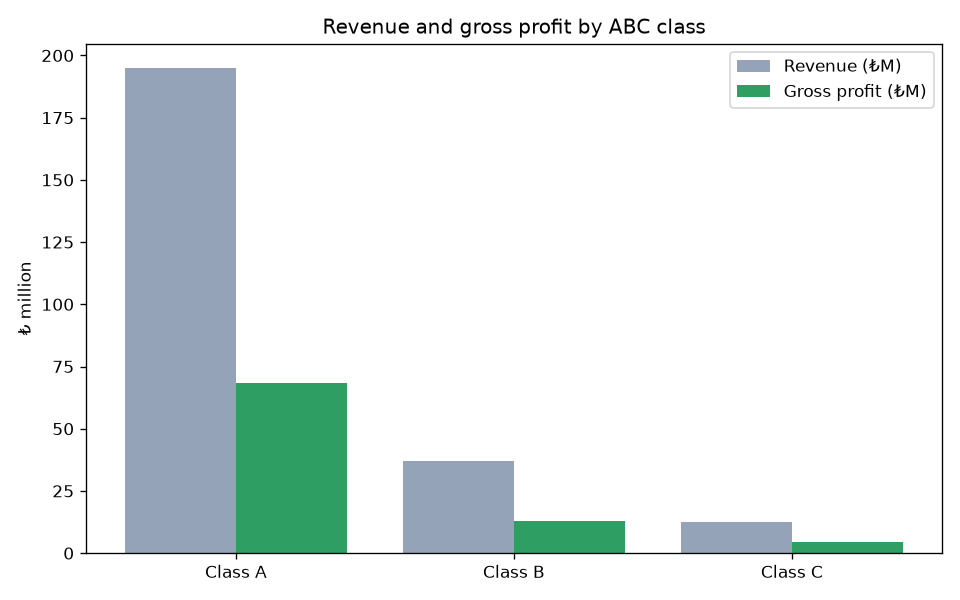
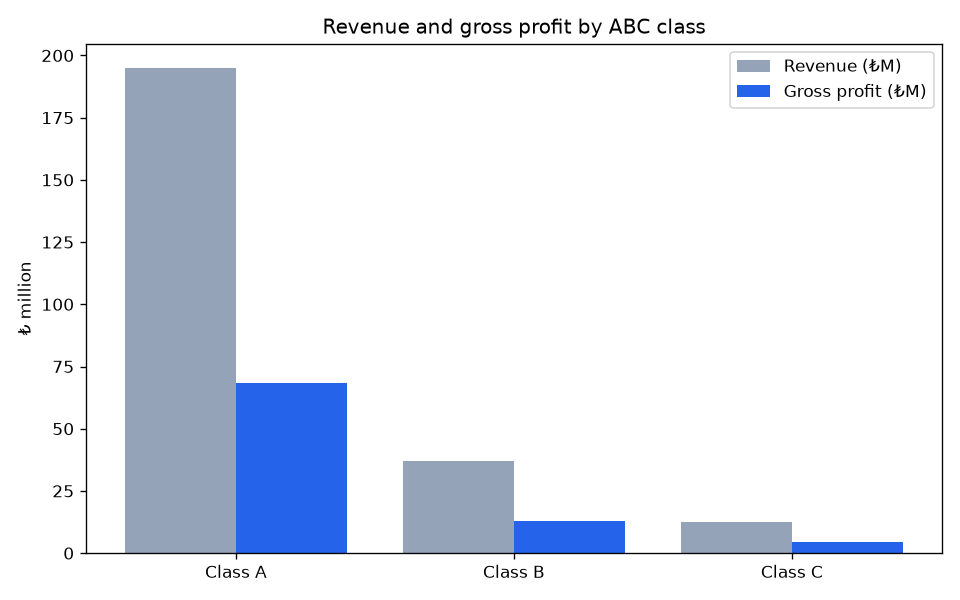
Rebrand palette to corporate indigo/blue (remove green)
- Primary accent indigo #2563EB (dark #3B82F6), secondary sky #0EA5E9;
  slate neutrals (#0F172A text, #64748B muted, #F8FAFC bg, white cards)
- Single-accent rule kept: active tab, primary buttons and key numbers blue,
  everything else neutral; --ok recoloured from green to the blue accent
- Critical stays red, reorder amber (functional status), now Tailwind-cohesive
- Chart palette (--a/--b/--c) retoned to blues; inline chart + matplotlib
  plot colours updated; consistent across light and dark themes

diff --git a/webapp/backend/static/index.html b/webapp/backend/static/index.html
@@ -6,28 +6,28 @@
   <title>Demand &amp; Stock Insight</title>
   <style>
     :root {
-      --bg: #f4f6f9; --surface: #ffffff; --surface-2: #f0f3f7; --border: #e2e8f0;
-      --text: #1a2733; --muted: #64748b; --accent: #2f9e63; --accent-2: #25814f;
-      --a: #2f9e63; --b: #94a3b8; --c: #cbd5e1;
-      --crit: #e05a44; --warn: #c68a3a; --ok: #2f9e63;
+      --bg: #f8fafc; --surface: #ffffff; --surface-2: #f1f5f9; --border: #e2e8f0;
+      --text: #0f172a; --muted: #64748b; --accent: #2563eb; --accent-2: #1d4ed8;
+      --a: #2563eb; --b: #0ea5e9; --c: #7dd3fc;
+      --crit: #dc2626; --warn: #d97706; --ok: #2563eb;
       --radius: 14px; --radius-sm: 10px;
       --shadow: 0 2px 8px rgba(16,24,40,.06), 0 1px 2px rgba(16,24,40,.05);
       --shadow-md: 0 8px 24px rgba(16,24,40,.10);
     }
     :root[data-theme="dark"] {
-      --bg: #0f1720; --surface: #17212b; --surface-2: #1e2b38; --border: #26333f;
-      --text: #e6edf3; --muted: #8aa0b3; --accent: #3bbd77; --accent-2: #2f9e63;
-      --a: #3bbd77; --b: #8b97a8; --c: #5c6a7d;
-      --crit: #f0705d; --warn: #d69f4e; --ok: #3bbd77;
+      --bg: #0f172a; --surface: #1e293b; --surface-2: #263447; --border: #334155;
+      --text: #e2e8f0; --muted: #94a3b8; --accent: #3b82f6; --accent-2: #2563eb;
+      --a: #3b82f6; --b: #38bdf8; --c: #7dd3fc;
+      --crit: #f87171; --warn: #fbbf24; --ok: #3b82f6;
       --shadow: 0 2px 10px rgba(0,0,0,.35), 0 1px 2px rgba(0,0,0,.3);
       --shadow-md: 0 10px 28px rgba(0,0,0,.45);
     }
     @media (prefers-color-scheme: dark) {
       :root:not([data-theme="light"]) {
-        --bg: #0f1720; --surface: #17212b; --surface-2: #1e2b38; --border: #26333f;
-        --text: #e6edf3; --muted: #8aa0b3; --accent: #3bbd77; --accent-2: #2f9e63;
-        --a: #3bbd77; --b: #8b97a8; --c: #5c6a7d;
-        --crit: #f0705d; --warn: #d69f4e; --ok: #3bbd77;
+        --bg: #0f172a; --surface: #1e293b; --surface-2: #263447; --border: #334155;
+        --text: #e2e8f0; --muted: #94a3b8; --accent: #3b82f6; --accent-2: #2563eb;
+        --a: #3b82f6; --b: #38bdf8; --c: #7dd3fc;
+        --crit: #f87171; --warn: #fbbf24; --ok: #3b82f6;
         --shadow: 0 2px 10px rgba(0,0,0,.35), 0 1px 2px rgba(0,0,0,.3);
         --shadow-md: 0 10px 28px rgba(0,0,0,.45);
       }
@@ -1009,7 +1009,7 @@
       const x = k => P + (W - 2 * P) * (n <= 1 ? 0.5 : k / (n - 1));
       const y = v => H - P - (H - 2 * P) * (v - mn) / span;
       const cs = getComputedStyle(document.documentElement);
-      const col = [cs.getPropertyValue("--accent").trim() || "#2f9e63", cs.getPropertyValue("--muted").trim() || "#888"];
+      const col = [cs.getPropertyValue("--accent").trim() || "#2563eb", cs.getPropertyValue("--muted").trim() || "#888"];
       const paths = chart.series.map((s, si) => {
         const pts = s.values.map((v, k) => v == null ? null : `${x(k).toFixed(1)},${y(v).toFixed(1)}`).filter(Boolean).join(" ");
         return `<polyline fill="none" stroke="${col[si % 2]}" stroke-width="2" stroke-linejoin="round" stroke-linecap="round" points="${pts}"/>`;

diff --git a/webapp/frontend/index.html b/webapp/frontend/index.html
@@ -6,28 +6,28 @@
   <title>Demand &amp; Stock Insight</title>
   <style>
     :root {
-      --bg: #f4f6f9; --surface: #ffffff; --surface-2: #f0f3f7; --border: #e2e8f0;
-      --text: #1a2733; --muted: #64748b; --accent: #2f9e63; --accent-2: #25814f;
-      --a: #2f9e63; --b: #94a3b8; --c: #cbd5e1;
-      --crit: #e05a44; --warn: #c68a3a; --ok: #2f9e63;
+      --bg: #f8fafc; --surface: #ffffff; --surface-2: #f1f5f9; --border: #e2e8f0;
+      --text: #0f172a; --muted: #64748b; --accent: #2563eb; --accent-2: #1d4ed8;
+      --a: #2563eb; --b: #0ea5e9; --c: #7dd3fc;
+      --crit: #dc2626; --warn: #d97706; --ok: #2563eb;
       --radius: 14px; --radius-sm: 10px;
       --shadow: 0 2px 8px rgba(16,24,40,.06), 0 1px 2px rgba(16,24,40,.05);
       --shadow-md: 0 8px 24px rgba(16,24,40,.10);
     }
     :root[data-theme="dark"] {
-      --bg: #0f1720; --surface: #17212b; --surface-2: #1e2b38; --border: #26333f;
-      --text: #e6edf3; --muted: #8aa0b3; --accent: #3bbd77; --accent-2: #2f9e63;
-      --a: #3bbd77; --b: #8b97a8; --c: #5c6a7d;
-      --crit: #f0705d; --warn: #d69f4e; --ok: #3bbd77;
+      --bg: #0f172a; --surface: #1e293b; --surface-2: #263447; --border: #334155;
+      --text: #e2e8f0; --muted: #94a3b8; --accent: #3b82f6; --accent-2: #2563eb;
+      --a: #3b82f6; --b: #38bdf8; --c: #7dd3fc;
+      --crit: #f87171; --warn: #fbbf24; --ok: #3b82f6;
       --shadow: 0 2px 10px rgba(0,0,0,.35), 0 1px 2px rgba(0,0,0,.3);
       --shadow-md: 0 10px 28px rgba(0,0,0,.45);
     }
     @media (prefers-color-scheme: dark) {
       :root:not([data-theme="light"]) {
-        --bg: #0f1720; --surface: #17212b; --surface-2: #1e2b38; --border: #26333f;
-        --text: #e6edf3; --muted: #8aa0b3; --accent: #3bbd77; --accent-2: #2f9e63;
-        --a: #3bbd77; --b: #8b97a8; --c: #5c6a7d;
-        --crit: #f0705d; --warn: #d69f4e; --ok: #3bbd77;
+        --bg: #0f172a; --surface: #1e293b; --surface-2: #263447; --border: #334155;
+        --text: #e2e8f0; --muted: #94a3b8; --accent: #3b82f6; --accent-2: #2563eb;
+        --a: #3b82f6; --b: #38bdf8; --c: #7dd3fc;
+        --crit: #f87171; --warn: #fbbf24; --ok: #3b82f6;
         --shadow: 0 2px 10px rgba(0,0,0,.35), 0 1px 2px rgba(0,0,0,.3);
         --shadow-md: 0 10px 28px rgba(0,0,0,.45);
       }
@@ -1009,7 +1009,7 @@
       const x = k => P + (W - 2 * P) * (n <= 1 ? 0.5 : k / (n - 1));
       const y = v => H - P - (H - 2 * P) * (v - mn) / span;
       const cs = getComputedStyle(document.documentElement);
-      const col = [cs.getPropertyValue("--accent").trim() || "#2f9e63", cs.getPropertyValue("--muted").trim() || "#888"];
+      const col = [cs.getPropertyValue("--accent").trim() || "#2563eb", cs.getPropertyValue("--muted").trim() || "#888"];
       const paths = chart.series.map((s, si) => {
         const pts = s.values.map((v, k) => v == null ? null : `${x(k).toFixed(1)},${y(v).toFixed(1)}`).filter(Boolean).join(" ");
         return `<polyline fill="none" stroke="${col[si % 2]}" stroke-width="2" stroke-linejoin="round" stroke-linecap="round" points="${pts}"/>`;

diff --git a/optimize_allocation.py b/optimize_allocation.py
@@ -248,7 +248,7 @@ def _plot(out, path):
     top = out.sort_values("recommended_order", ascending=False).head(15)[::-1]
     labels = top["Store ID"] + "·" + top["Product ID"]
     fig, ax = plt.subplots(figsize=(10, 6))
-    ax.barh(labels, top["allocation"], color="#2f9e63", label="Optimised allocation")
+    ax.barh(labels, top["allocation"], color="#2563eb", label="Optimised allocation")
     ax.barh(labels, top["current_inventory"], color="#94a3b8", label="Current stock")
     ax.set_xlabel("Units")
     ax.set_title("Optimised stock allocation vs current — top reorder needs")
@@ -267,10 +267,10 @@ def _plot_sensitivity(sens, summary, path):
     infeas = [c for c in sens["curve"] if c["total_cost"] is None]
     bx = [c["budget"] / 1e6 for c in feas]
     fig, ax = plt.subplots(figsize=(9, 5))
-    ax.plot(bx, [c["total_cost"] / 1e6 for c in feas], "o-", color="#2f9e63",
+    ax.plot(bx, [c["total_cost"] / 1e6 for c in feas], "o-", color="#2563eb",
             label="Total expected cost (₺M)")
     ax.set_xlabel("Budget (₺M)")
-    ax.set_ylabel("Total expected cost (₺M)", color="#2f9e63")
+    ax.set_ylabel("Total expected cost (₺M)", color="#2563eb")
     ax.axvline(summary["min_feasible_budget"] / 1e6, ls="--", color="#e05a44",
                label="Feasibility floor")
     for c in infeas:

diff --git a/financial_metrics.py b/financial_metrics.py
@@ -151,7 +151,7 @@ def _plot(table, path):
     fig, ax = plt.subplots(figsize=(8, 5))
     x = np.arange(len(by_abc))
     ax.bar(x - 0.2, by_abc["revenue"] / 1e6, 0.4, label="Revenue (₺M)", color="#94a3b8")
-    ax.bar(x + 0.2, by_abc["gross_profit"] / 1e6, 0.4, label="Gross profit (₺M)", color="#2f9e63")
+    ax.bar(x + 0.2, by_abc["gross_profit"] / 1e6, 0.4, label="Gross profit (₺M)", color="#2563eb")
     ax.set_xticks(x)
     ax.set_xticklabels([f"Class {c}" for c in by_abc.index])
     ax.set_ylabel("₺ million")